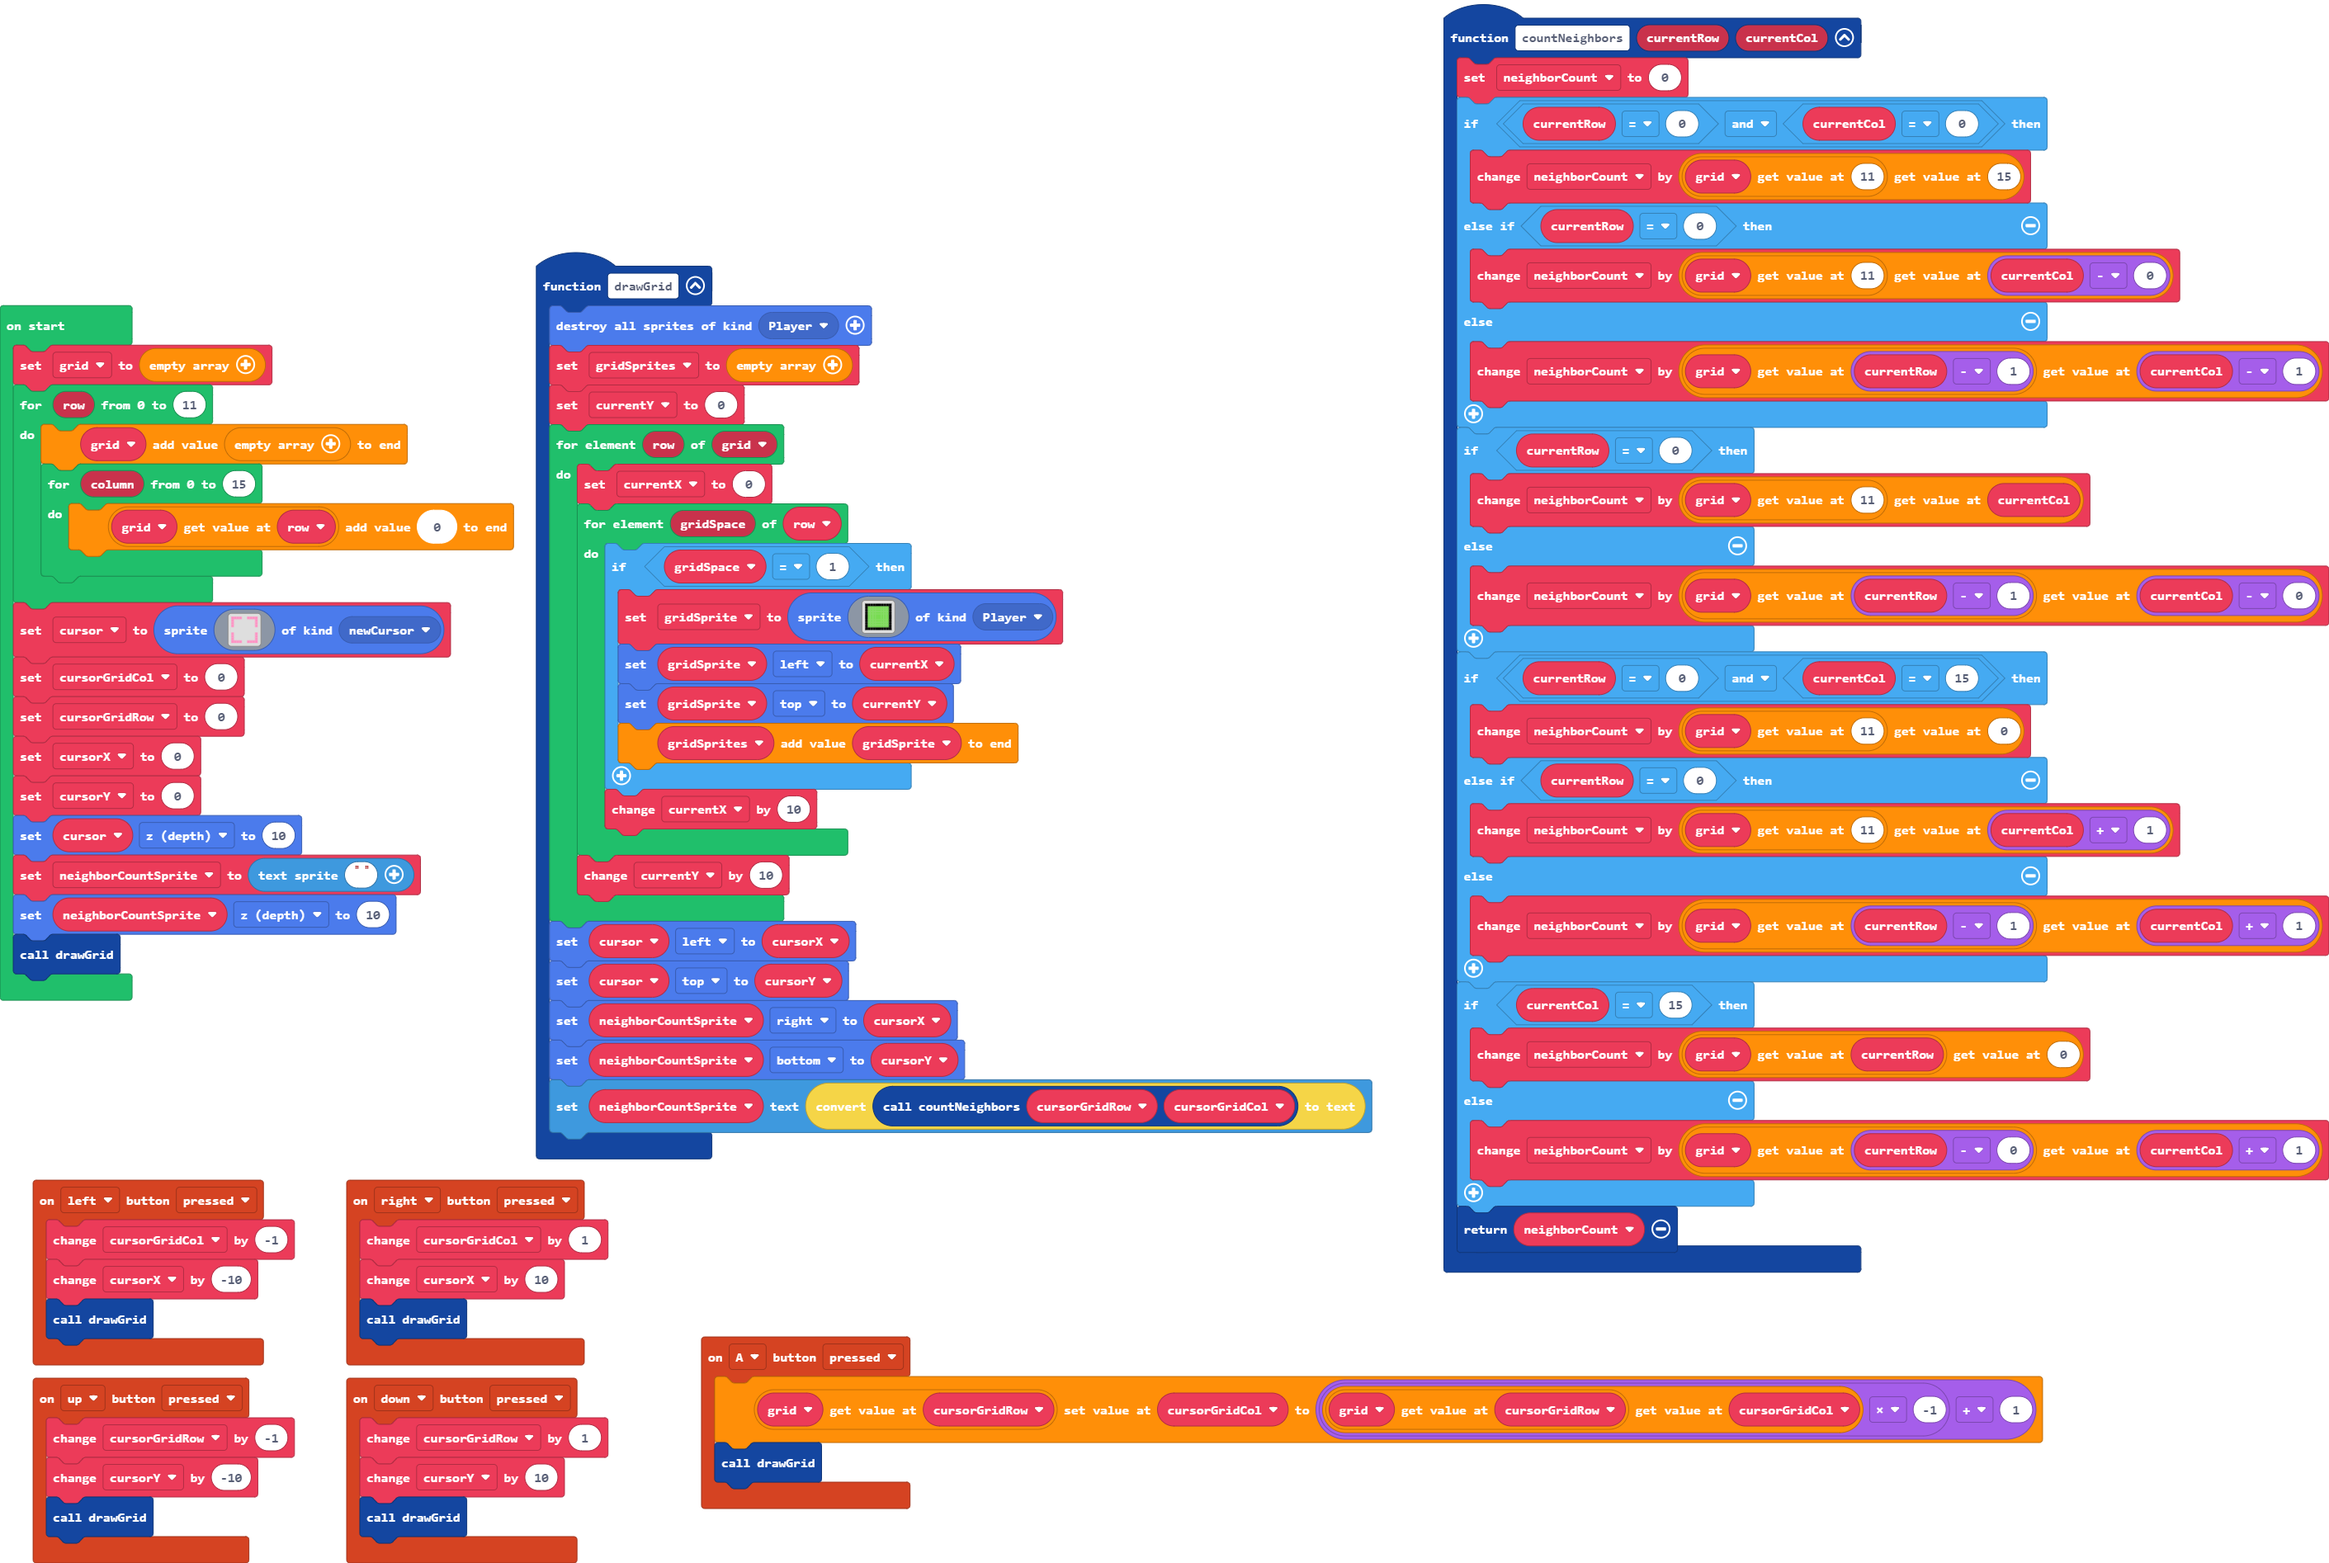
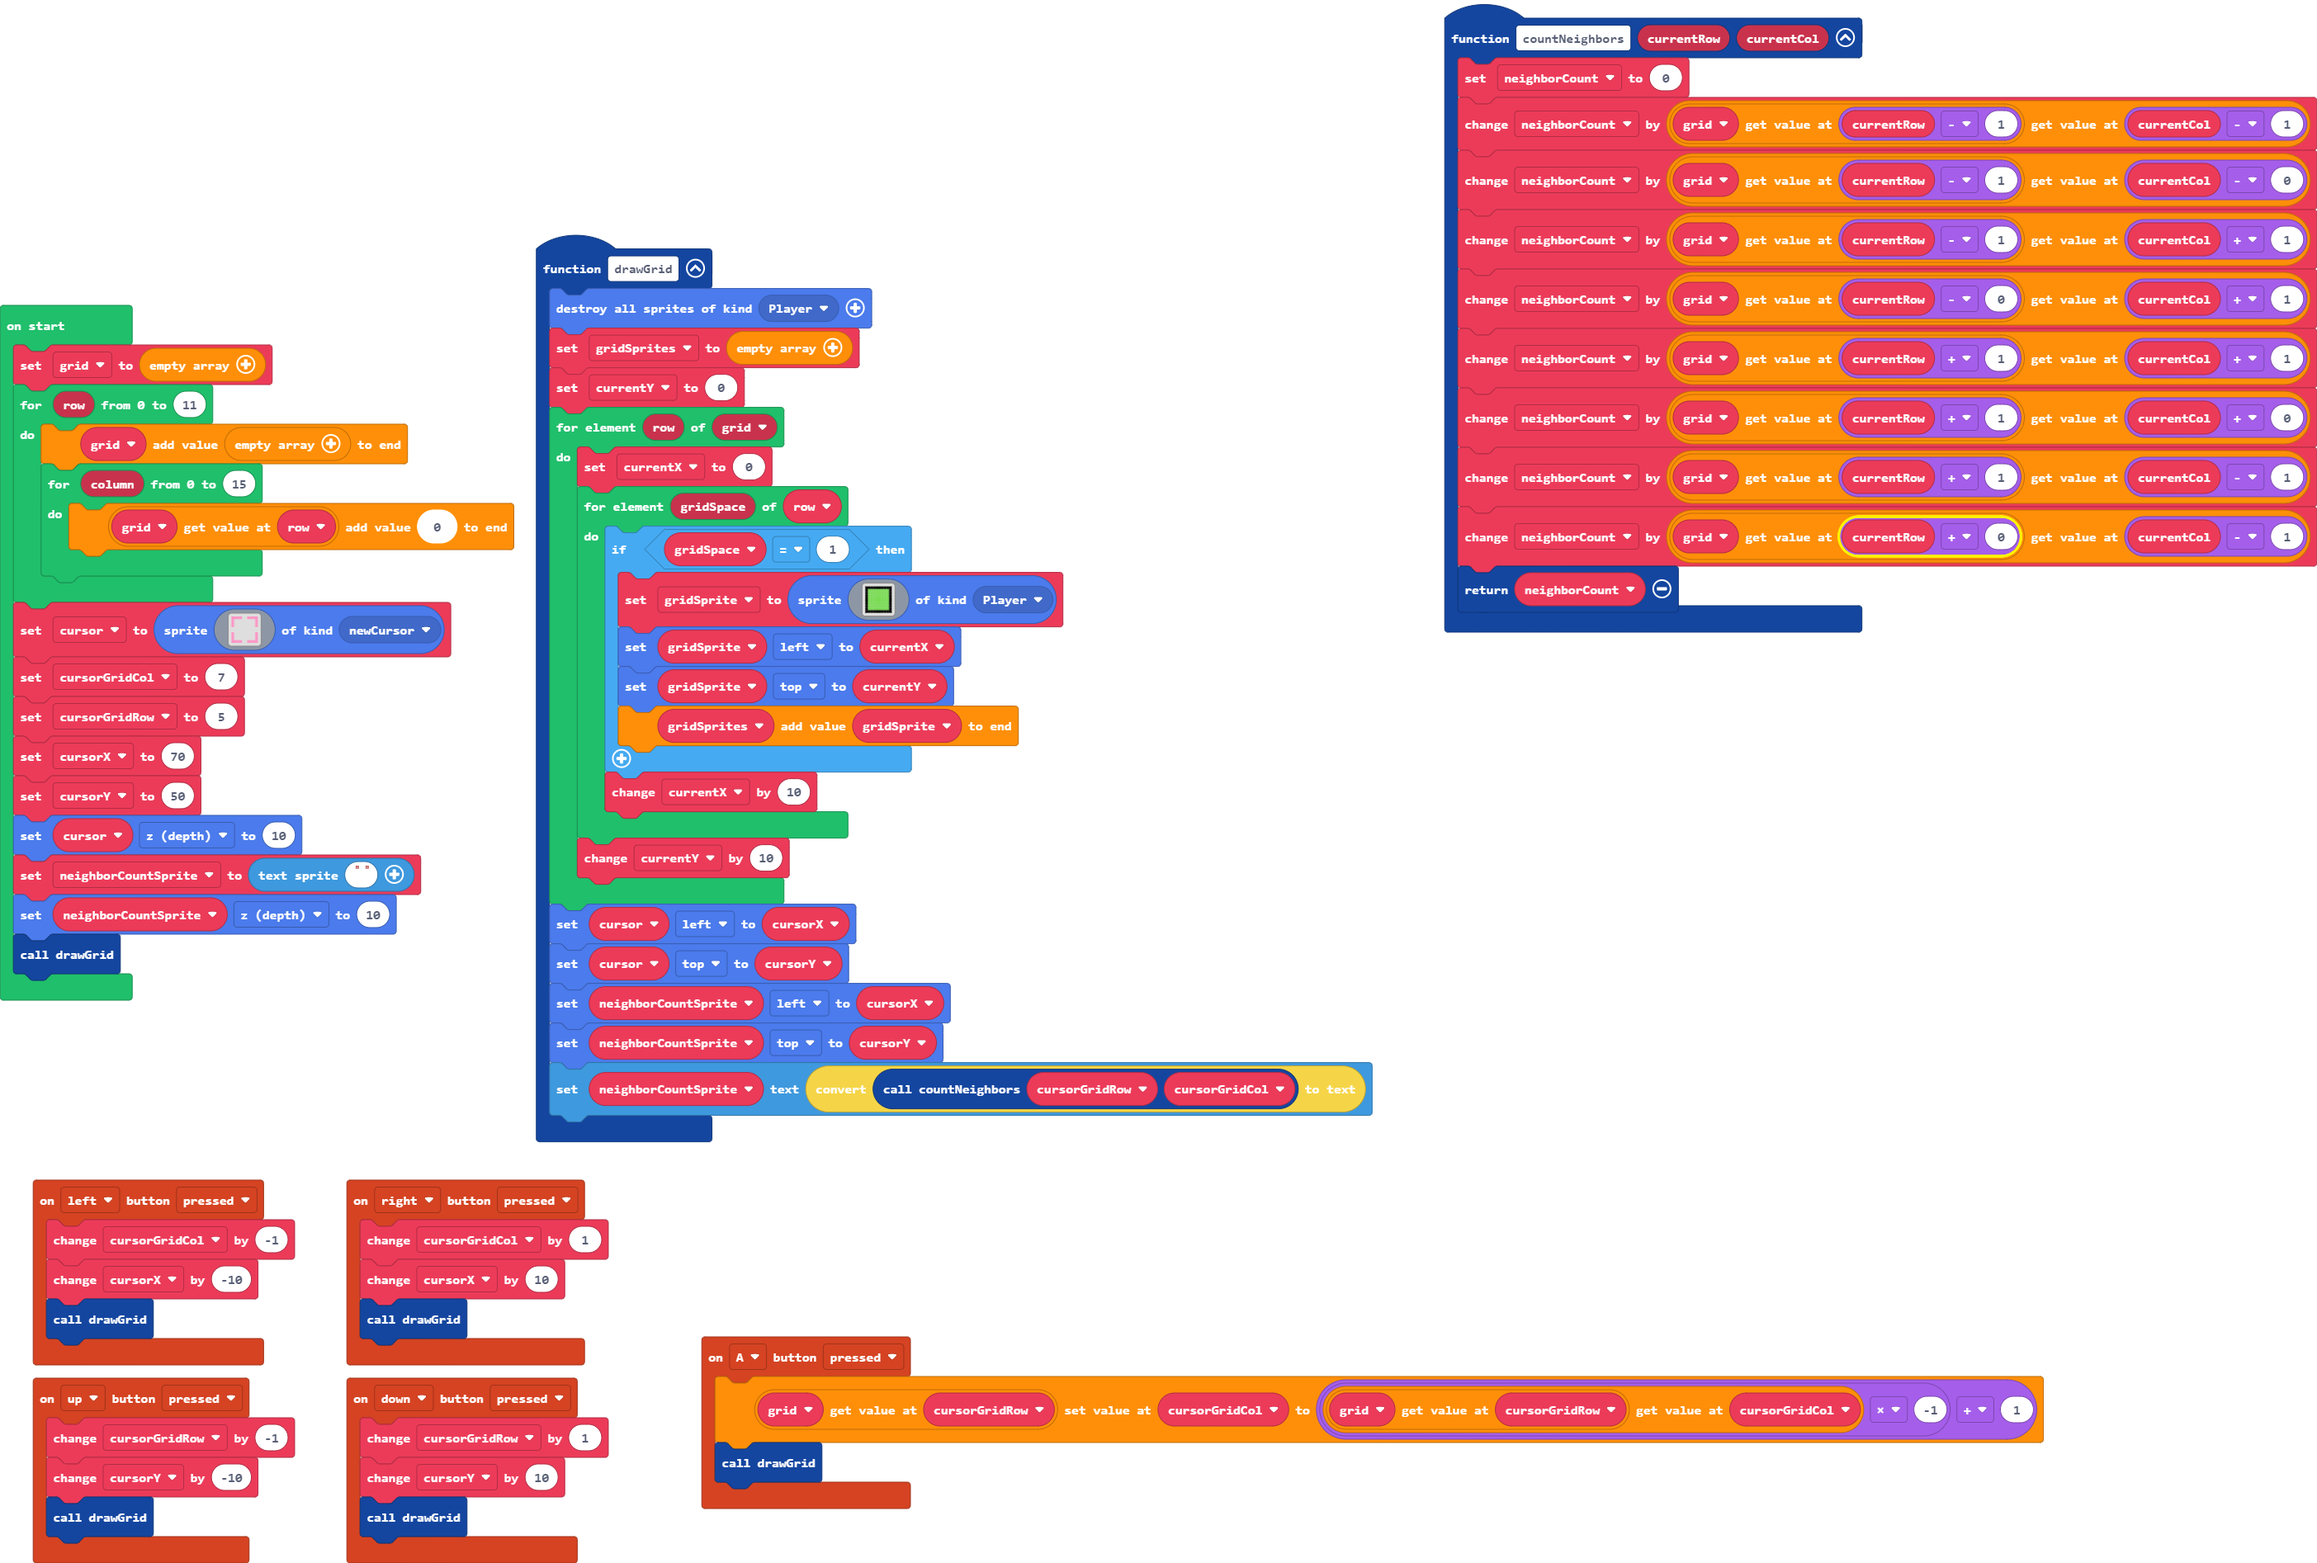
counting without edge

diff --git a/main.ts b/main.ts
@@ -51,36 +51,20 @@ function drawGrid () {
     }
     cursor.left = cursorX
     cursor.top = cursorY
-    neighborCountSprite.right = cursorX
-    neighborCountSprite.bottom = cursorY
+    neighborCountSprite.left = cursorX
+    neighborCountSprite.top = cursorY
     neighborCountSprite.setText(convertToText(countNeighbors(cursorGridRow, cursorGridCol)))
 }
 function countNeighbors (currentRow: number, currentCol: number) {
     neighborCount = 0
-    if (currentRow == 0 && currentCol == 0) {
-        neighborCount += grid[11][15]
-    } else if (currentRow == 0) {
-        neighborCount += grid[11][currentCol - 0]
-    } else {
-        neighborCount += grid[currentRow - 1][currentCol - 1]
-    }
-    if (currentRow == 0) {
-        neighborCount += grid[11][currentCol]
-    } else {
-        neighborCount += grid[currentRow - 1][currentCol - 0]
-    }
-    if (currentRow == 0 && currentCol == 15) {
-        neighborCount += grid[11][0]
-    } else if (currentRow == 0) {
-        neighborCount += grid[11][currentCol + 1]
-    } else {
-        neighborCount += grid[currentRow - 1][currentCol + 1]
-    }
-    if (currentCol == 15) {
-        neighborCount += grid[currentRow][0]
-    } else {
-        neighborCount += grid[currentRow - 0][currentCol + 1]
-    }
+    neighborCount += grid[currentRow - 1][currentCol - 1]
+    neighborCount += grid[currentRow - 1][currentCol - 0]
+    neighborCount += grid[currentRow - 1][currentCol + 1]
+    neighborCount += grid[currentRow - 0][currentCol + 1]
+    neighborCount += grid[currentRow + 1][currentCol + 1]
+    neighborCount += grid[currentRow + 1][currentCol + 0]
+    neighborCount += grid[currentRow + 1][currentCol - 1]
+    neighborCount += grid[currentRow + 0][currentCol - 1]
     return neighborCount
 }
 controller.down.onEvent(ControllerButtonEvent.Pressed, function () {
@@ -119,10 +103,10 @@ cursor = sprites.create(img`
     3 . . . . . . . . 3 
     3 3 3 3 . . 3 3 3 3 
     `, SpriteKind.newCursor)
-cursorGridCol = 0
-cursorGridRow = 0
-cursorX = 0
-cursorY = 0
+cursorGridCol = 7
+cursorGridRow = 5
+cursorX = 70
+cursorY = 50
 cursor.z = 10
 neighborCountSprite = textsprite.create("")
 neighborCountSprite.z = 10
